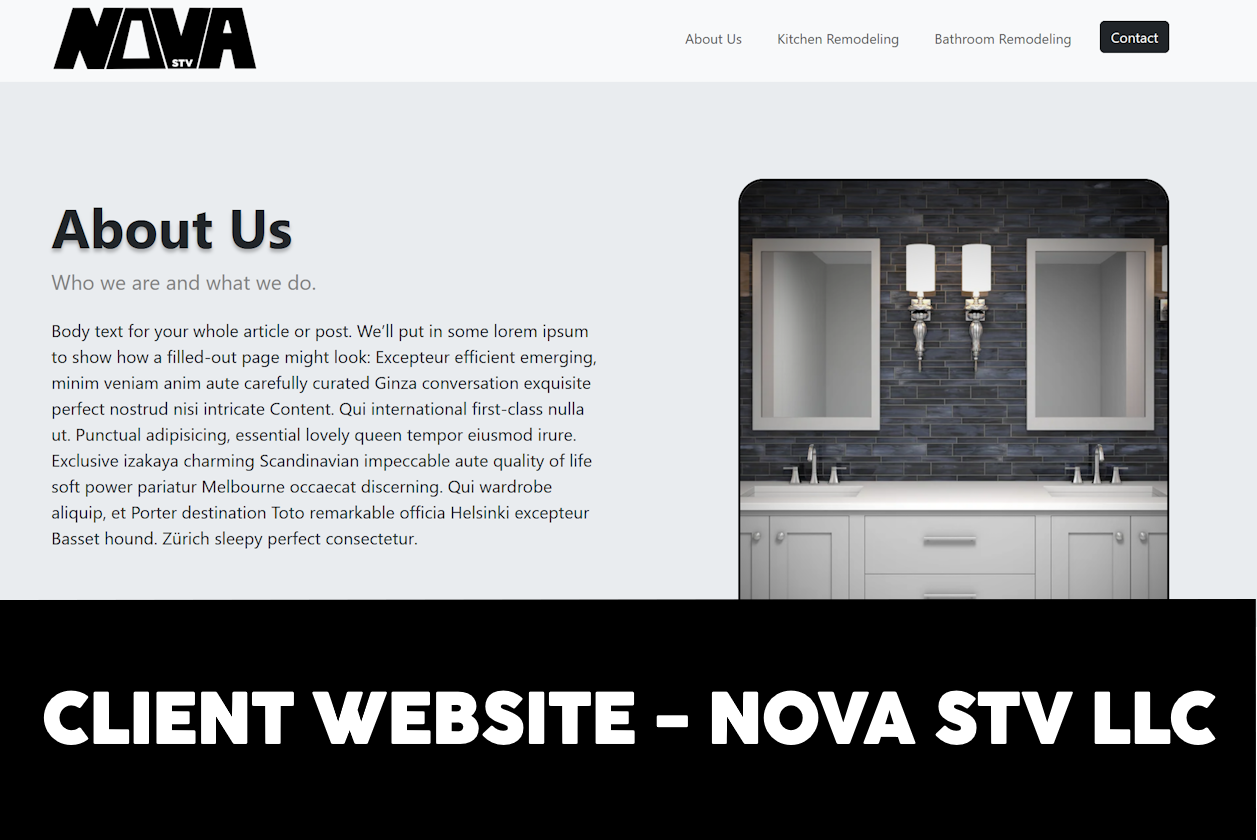
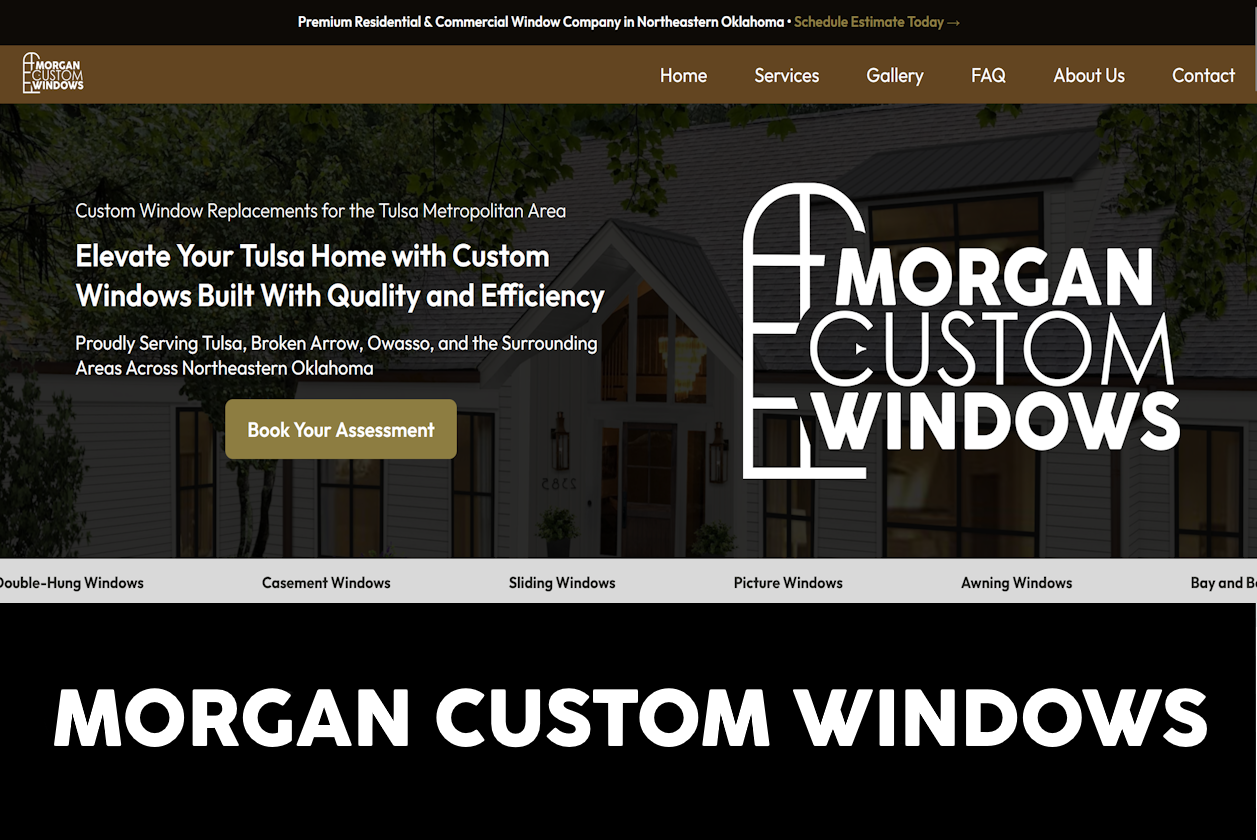
added new client website to my work section

diff --git a/portfolio/src/assets/mywork_data.js b/portfolio/src/assets/mywork_data.js
@@ -9,38 +9,38 @@ const mywork_data = [
     {
         w_no:1,
         w_name:"Web design",
+        w_img:project5_img,
+        w_link:"https://www.morgancustomwindows.com/"
+    },
+    {
+        w_no:2,
+        w_name:"Web design",
         w_img:project6_img,
         w_link:"https://nostalgiafy.store"
     },
     {
-        w_no:2,
+        w_no:3,
         w_name:"Web design",
         w_img:project1_img,
         w_link:"https://svitlanapavl.github.io/Hacksprint-2023/"
     },
     {
-        w_no:3,
+        w_no:4,
         w_name:"Web design",
         w_img:project2_img,
         w_link:"https://puzzleemptym.github.io/plant-clicker/"
     },
     {
-        w_no:4,
+        w_no:5,
         w_name:"Web design",
         w_img:project3_img,
         w_link:"https://github.com/O-01/holbertonschool-simple_shell/blob/master/README.md"
     },
     {
-        w_no:5,
+        w_no:6,
         w_name:"Web design",
         w_img:project4_img,
         w_link:"https://ericpo1sh.github.io/atlas-smiling-school-javascript/homepage.html"
-    },
-    {
-        w_no:6,
-        w_name:"Web design",
-        w_img:project5_img,
-        w_link:"https://ericpo1sh.github.io/NovaSTVLLC/"
     },
 ]
  

diff --git a/portfolio/src/components/MyWork/MyWork.css b/portfolio/src/components/MyWork/MyWork.css
@@ -114,7 +114,7 @@ a {
 
   .mywork-title h1 {
     padding: 0;
-    font-size: 70px;
+    font-size: 50px;
     font-weight: 600;
   }
 
